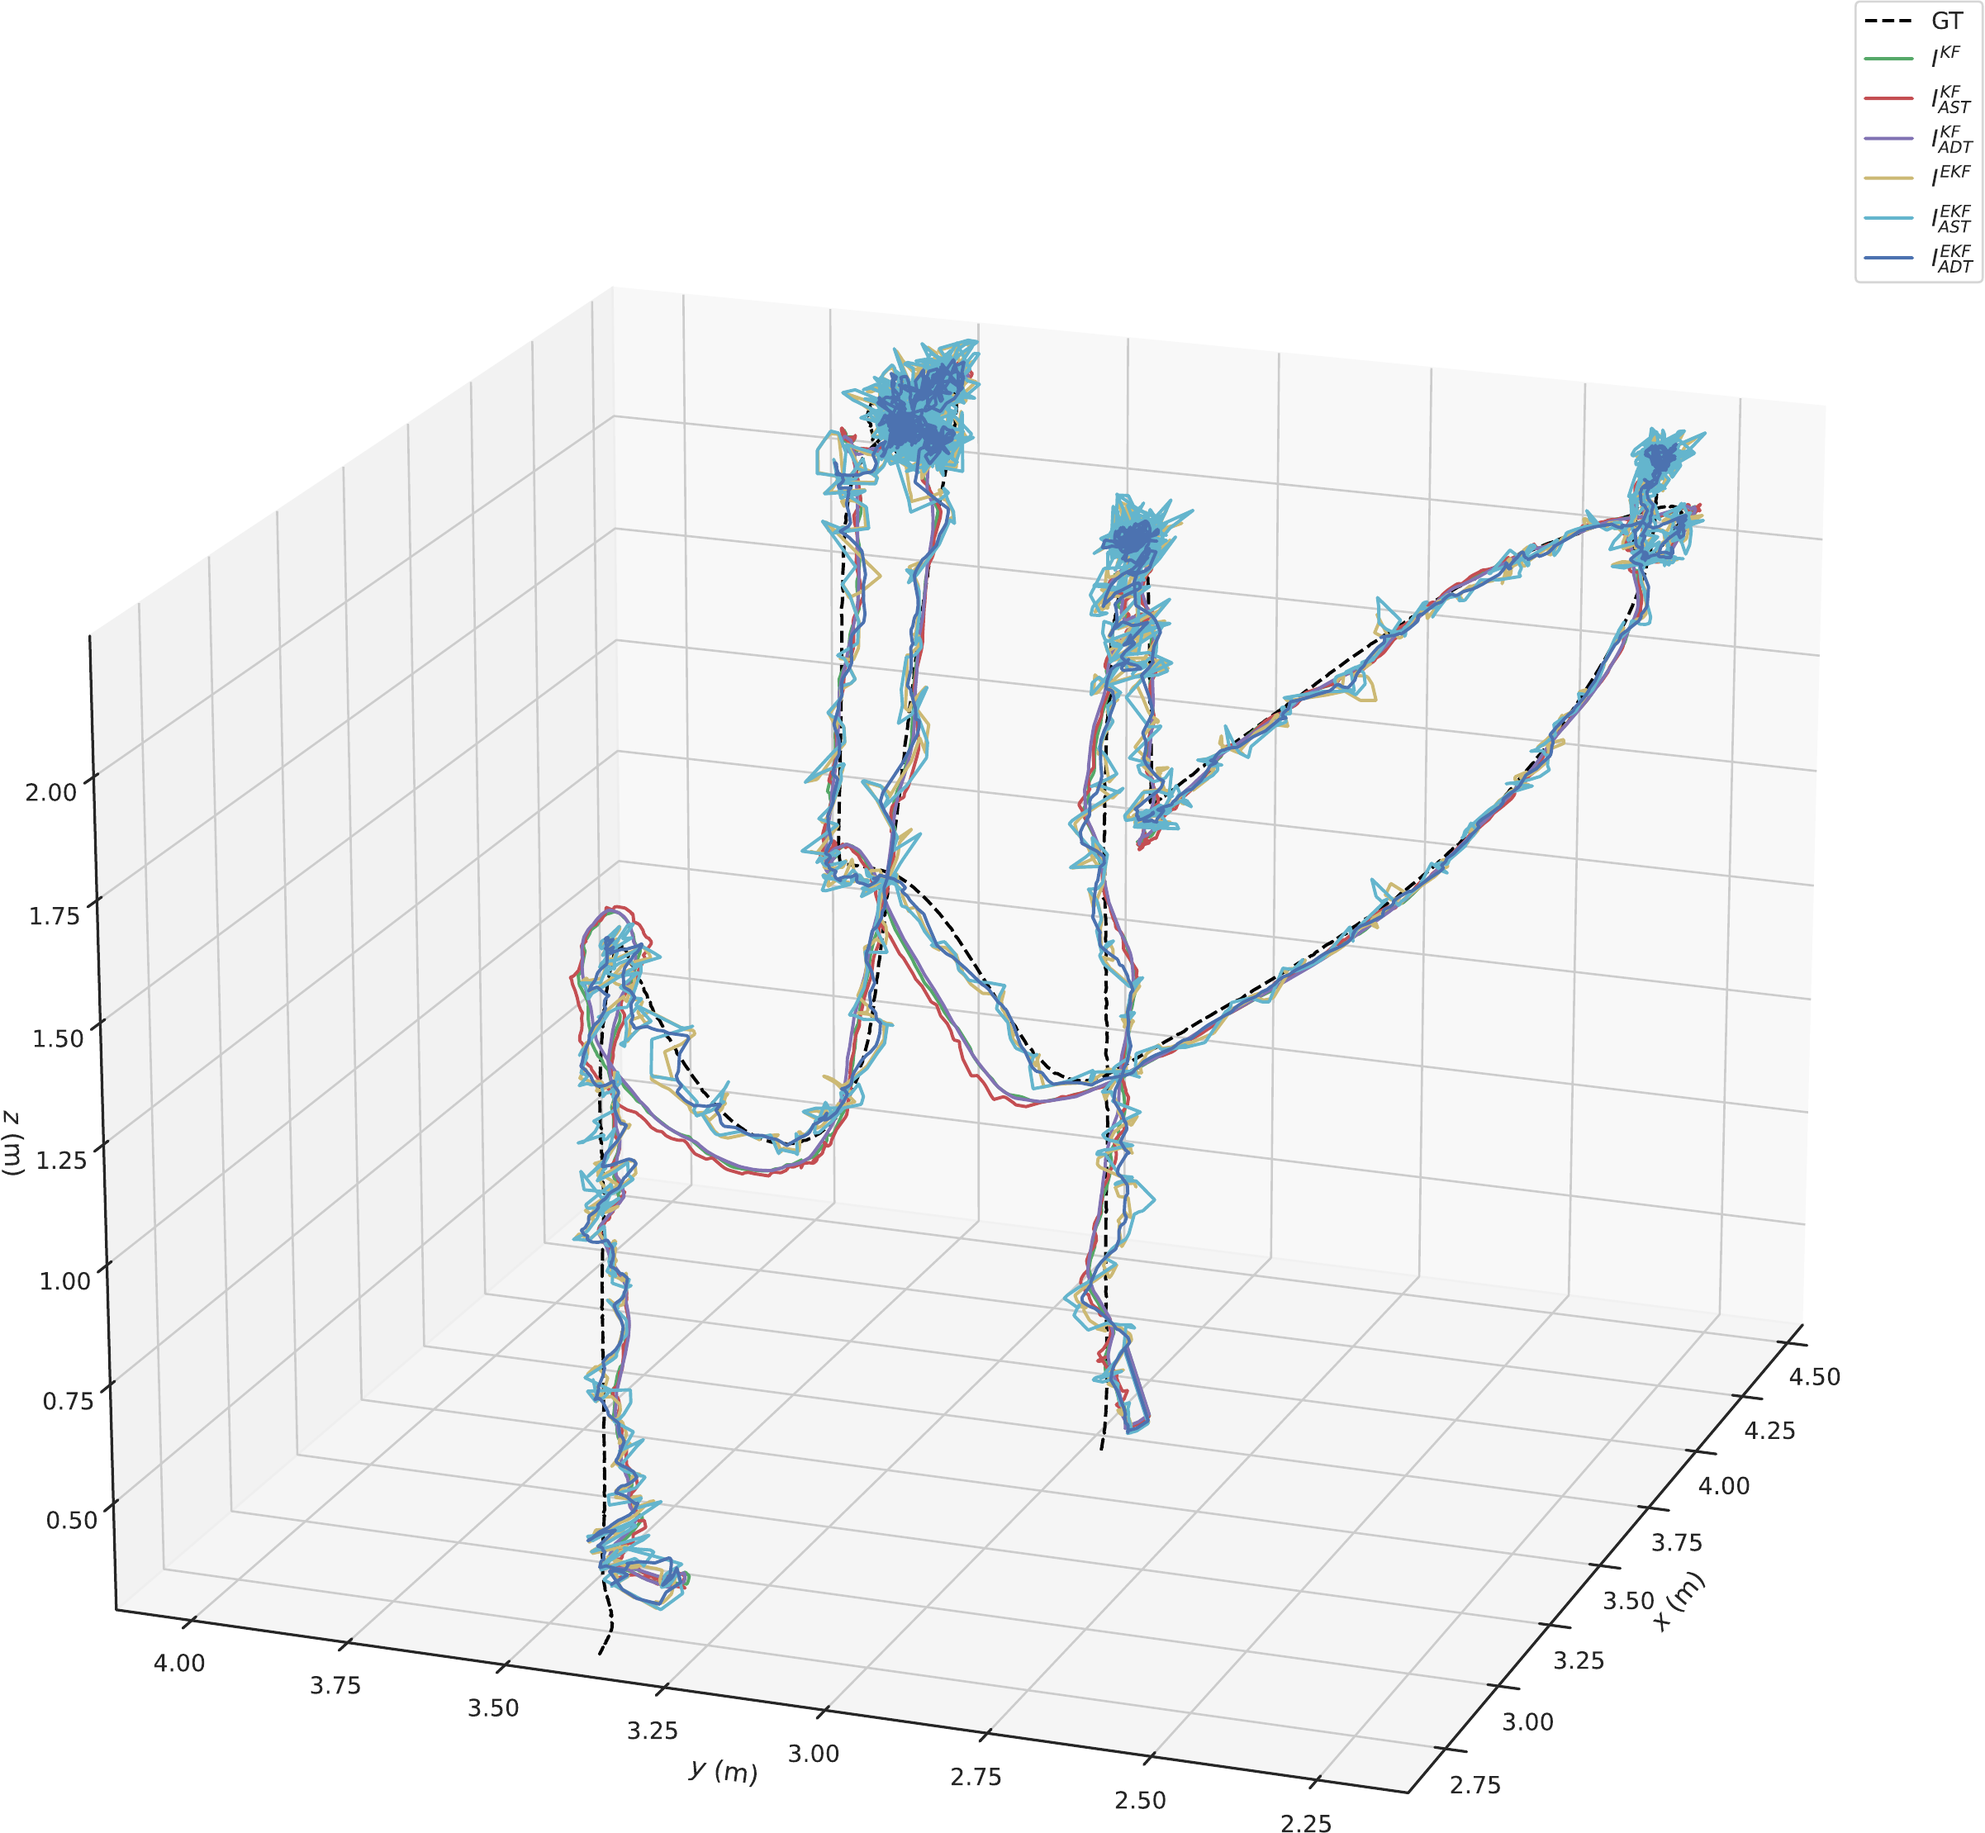
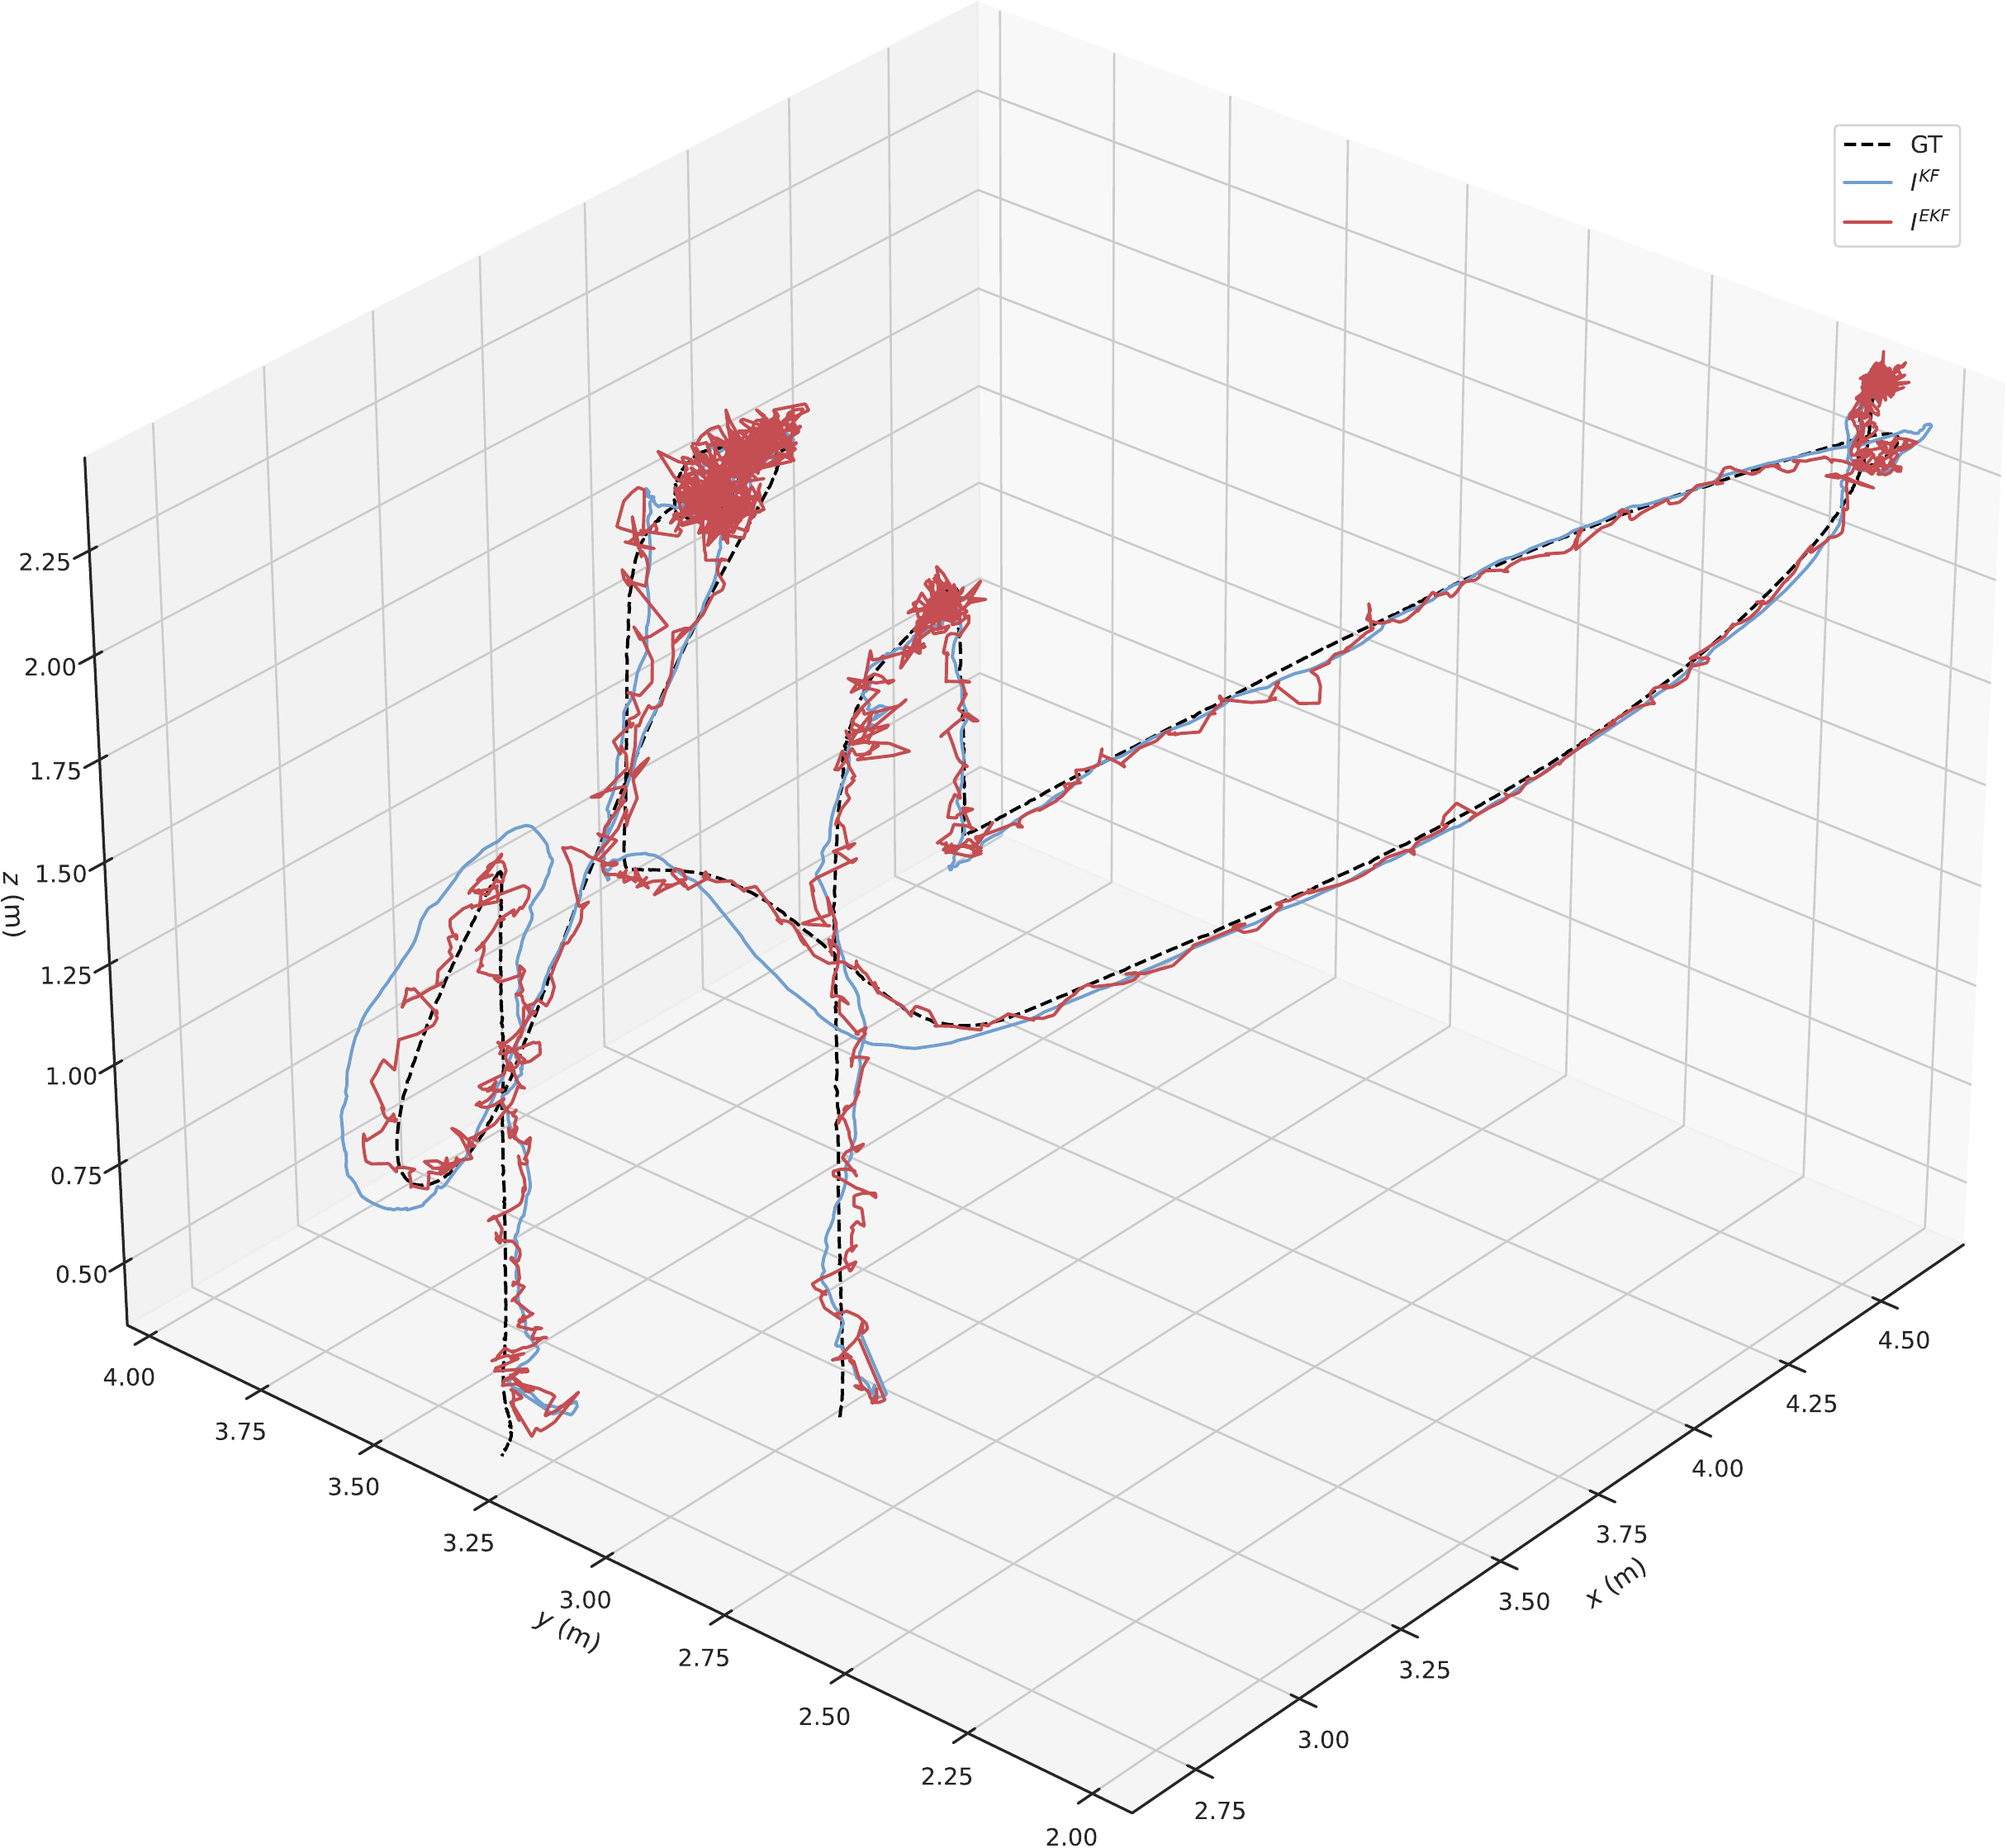
add trajectories

diff --git a/index.html b/index.html
@@ -68,7 +68,7 @@
                     Tomi Westerlund<sup>*</sup>,
                 </span>
                 <span class="author-block">
-                    Jorge Pena Queralta<sup>*,+</sup>
+                    <a href="https://scai.ethz.ch/people/jorge-pena.html" target="_blank"></a>Jorge Pena Queralta</a><sup>*,+</sup>
                 </span>
             </div>
 
@@ -252,49 +252,49 @@
                 </div>
                 <div class="item">
                     <!-- Your image here -->
-                    <img src="static/images/track1.png" alt="Trajectory 4"/>
+                    <img src="static/images/track4.png" alt="Trajectory 4"/>
                     <h2 class="subtitle has-text-centered">
                         Estimated trajectory T4
                     </h2>
                 </div>
                 <div class="item">
                     <!-- Your image here -->
-                    <img src="static/images/track1.png" alt="Trajectory 5"/>
+                    <img src="static/images/track5.png" alt="Trajectory 5"/>
                     <h2 class="subtitle has-text-centered">
                         Estimated trajectory T5
                     </h2>
                 </div>
                 <div class="item">
                     <!-- Your image here -->
-                    <img src="static/images/track1.png" alt="Trajectory 6"/>
+                    <img src="static/images/track6.png" alt="Trajectory 6"/>
                     <h2 class="subtitle has-text-centered">
                         Estimated trajectory T6
                     </h2>
                 </div>
                 <div class="item">
                     <!-- Your image here -->
-                    <img src="static/images/track1.png" alt="Trajectory 7"/>
+                    <img src="static/images/track7.png" alt="Trajectory 7"/>
                     <h2 class="subtitle has-text-centered">
                         Estimated trajectory T7
                     </h2>
                 </div>
                 <div class="item">
                     <!-- Your image here -->
-                    <img src="static/images/track1.png" alt="Trajectory 8"/>
+                    <img src="static/images/track8.png" alt="Trajectory 8"/>
                     <h2 class="subtitle has-text-centered">
                         Estimated trajectory T8
                     </h2>
                 </div>
                 <div class="item">
                     <!-- Your image here -->
-                    <img src="static/images/track1.png" alt="Trajectory 9"/>
+                    <img src="static/images/track9.png" alt="Trajectory 9"/>
                     <h2 class="subtitle has-text-centered">
                         Estimated trajectory T9
                     </h2>
                 </div>
                 <div class="item">
                     <!-- Your image here -->
-                    <img src="static/images/track1.png" alt="Trajectory 10"/>
+                    <img src="static/images/track10.png" alt="Trajectory 10"/>
                     <h2 class="subtitle has-text-centered">
                         Estimated trajectory T10
                     </h2>
